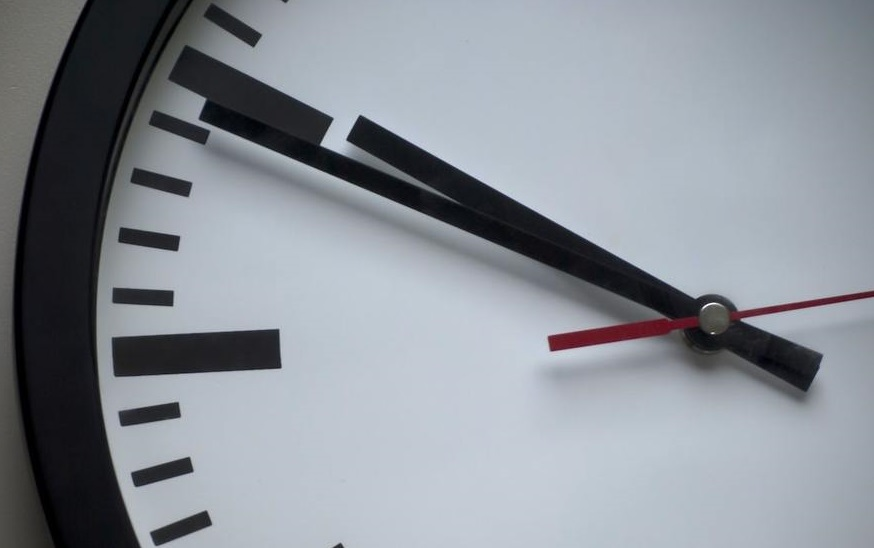
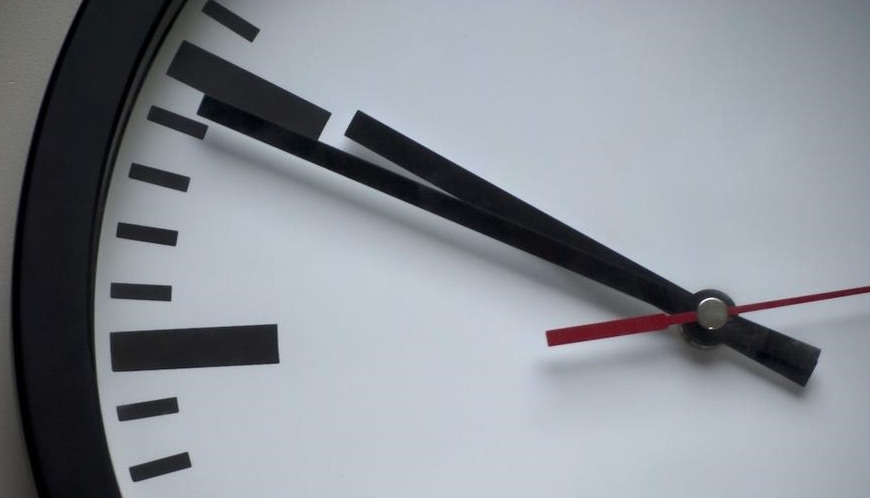
Imagen de panel de administracion de evaluacion de nivel
Se cambió la imagen del panel de administracion de evaluaciones de nivel

diff --git a/templates/home/administracion.html b/templates/home/administracion.html
@@ -66,7 +66,7 @@
           </div>
         <div class="col-lg-4 col-sm-6 portfolio-item">
           <div class="card h-100">
-            <a href="/rutinas/administrar_evaluacion_nivel/{{user.id}}"><img class="card-img-top" src="{% static 'img/img_ver_actividades.jpg'%}" alt=""></a>
+            <a href="/rutinas/administrar_evaluacion_nivel/{{user.id}}"><img class="card-img-top" src="{% static 'img/img_evaluacion_nivel.jpg'%}" alt=""></a>
             <div class="card-body">
               <h4 class="card-title">
                 <a href="/rutinas/administrar_evaluacion_nivel/{{user.id}}">Administrar Evaluación de Nivel</a>
